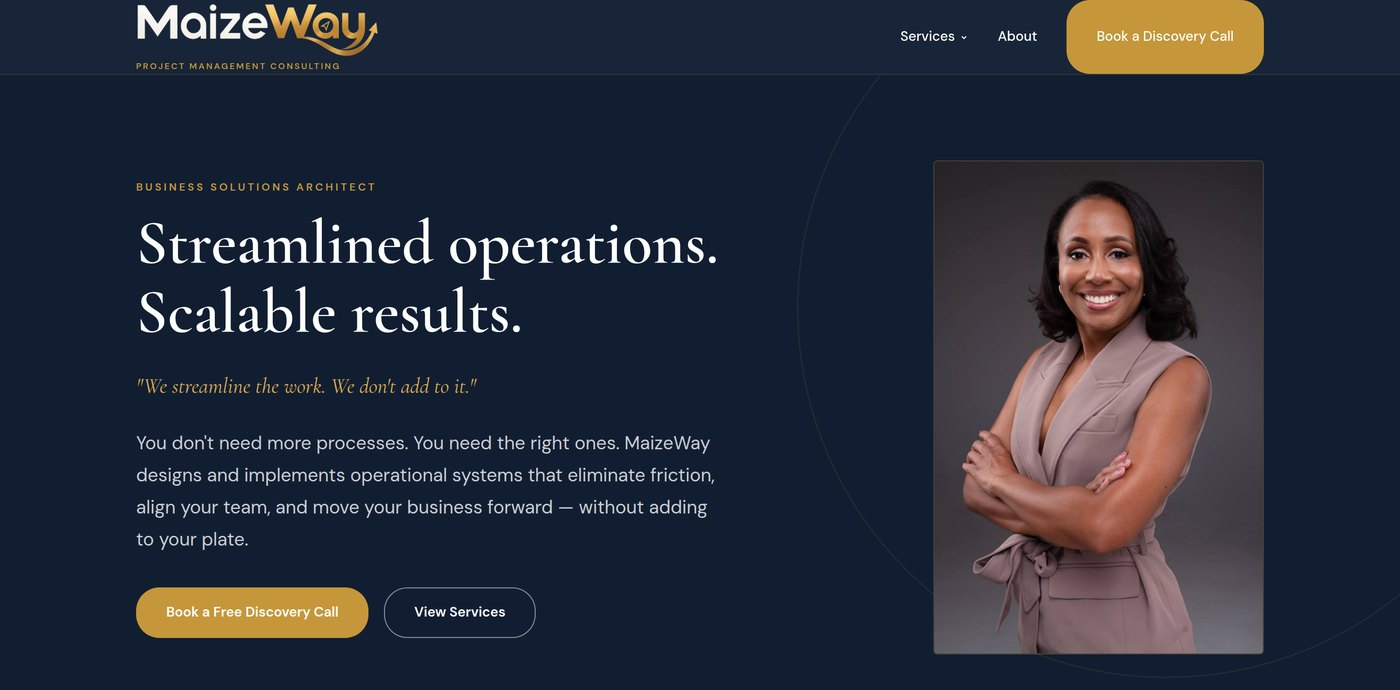
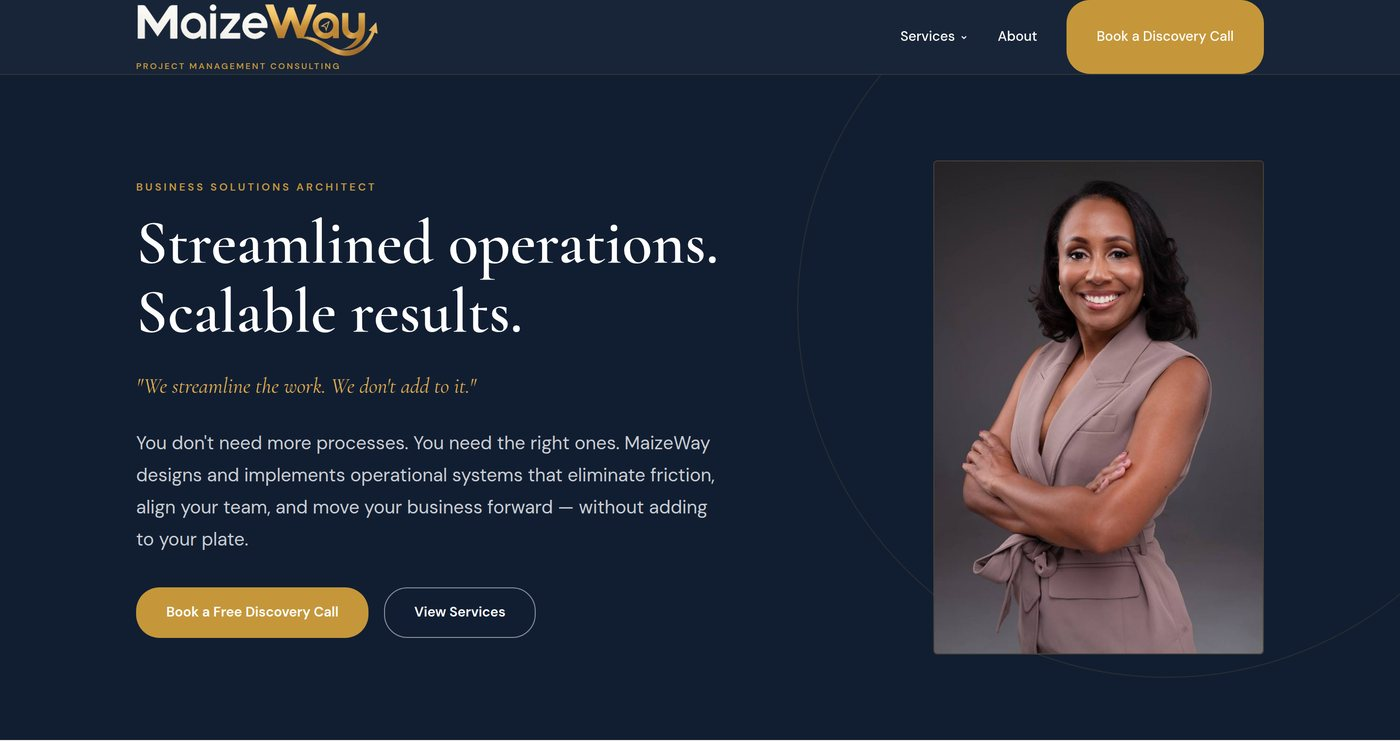
Reframe Creative Motion as a rebrand and show the full hero.
The portfolio copy now leads with the rebrand, and the homepage screenshot keeps the logo, headline, and portrait inside the browser frame.

diff --git a/portfolio.html b/portfolio.html
@@ -1247,17 +1247,18 @@ img.hero-watermark{ max-width: min(520px, 70vw); opacity: 0.14; object-fit: cont
     <div class="section-head reveal">
       <span class="eyebrow">Case Study</span>
       <h2>Creative Motion Events</h2>
-      <p>Creative direction and event design by Fayola Whyte-Manco. Full website redesign and migration off Squarespace to a fast custom site, with event portfolio galleries organized by category and album, a journal, inquiry forms, a mobile-first layout, SEO and link-preview setup, and a custom domain with HTTPS.</p>
+      <p>Full rebrand and website redesign for Creative Motion Events — creative direction and event design by Fayola Whyte-Manco. New gold logo and monogram with a new brand look, a redesigned site moved off Squarespace, event galleries organized by category and album, a journal, inquiry forms, a mobile-first layout, SEO and link previews, and a custom domain with HTTPS.</p>
     </div>
 
     <div class="case-panel reveal">
       <div>
         <span class="eyebrow on-dark">The Website</span>
-        <h3 style="font-size:24px;color:#fff;margin-top:14px;">Redesigned and moved off Squarespace.</h3>
-        <p style="color:rgba(255,255,255,0.68);margin-top:14px;">Event galleries organized by category and album, a journal, and inquiry forms. Built mobile-first, with SEO and link previews, on a custom domain with HTTPS.</p>
+        <h3 style="font-size:24px;color:#fff;margin-top:14px;">A full rebrand, redesigned and moved off Squarespace.</h3>
+        <p style="color:rgba(255,255,255,0.68);margin-top:14px;">New gold logo and monogram with a new brand look. Event galleries organized by category and album, a journal, and inquiry forms. Mobile-first layout, SEO and link previews, and a custom domain with HTTPS.</p>
         <div class="tag-list">
+          <span>Rebrand</span>
           <span>Website Design</span>
-          <span>Brand Refresh / Logo</span>
+          <span>Logo</span>
           <span>Migration</span>
         </div>
         <a href="https://creativemotionevents.com/" class="btn btn-outline-dark" style="margin-top:28px;" target="_blank" rel="noopener">Visit site
@@ -1266,7 +1267,7 @@ img.hero-watermark{ max-width: min(520px, 70vw); opacity: 0.14; object-fit: cont
       </div>
       <div class="shot-frame tilt-el">
         <div class="bar"><span></span><span></span><span></span></div>
-        <img src="assets/portfolio/creative-motion-events-website.jpg" alt="Creative Motion Events homepage hero for creative direction and event design">
+        <img src="assets/portfolio/creative-motion-events-website.jpg" alt="Creative Motion Events homepage hero with the gold logo, Fayola Whyte-Manco, and the rebrand headline">
       </div>
     </div>
   </div>

diff --git a/index.html b/index.html
@@ -1592,16 +1592,17 @@ img.hero-watermark{ max-width: min(520px, 70vw); opacity: 0.14; }
     <div class="section-head reveal">
       <span class="eyebrow">Featured Work</span>
       <h2>Creative Motion Events</h2>
-      <p>Full website redesign and migration off Squarespace for creative direction and event design by Fayola Whyte-Manco — category and album galleries, a journal, inquiry forms, and a mobile-first custom site.</p>
+      <p>Full rebrand and website redesign for Creative Motion Events — creative direction and event design by Fayola Whyte-Manco. New gold logo and monogram with a new brand look, a redesigned site moved off Squarespace, galleries, a journal, inquiry forms, a mobile-first layout, SEO and link previews, and a custom domain with HTTPS.</p>
     </div>
     <div class="case-panel reveal">
       <div>
         <span class="eyebrow on-dark">Case Study</span>
-        <h3 style="font-size:28px;color:#fff;margin-top:16px;">Redesigned and moved off Squarespace.</h3>
-        <p style="color:rgba(255,255,255,0.68);margin-top:14px;">A fast custom site with event portfolio galleries, a journal, inquiry forms, mobile-first layout, SEO and link-preview setup, and a custom domain with HTTPS.</p>
+        <h3 style="font-size:28px;color:#fff;margin-top:16px;">A full rebrand, redesigned and moved off Squarespace.</h3>
+        <p style="color:rgba(255,255,255,0.68);margin-top:14px;">New gold logo and monogram with a new brand look. Galleries, a journal, inquiry forms, a mobile-first layout, SEO and link previews, and a custom domain with HTTPS.</p>
         <div class="tag-list">
+          <span>Rebrand</span>
           <span>Website Design</span>
-          <span>Brand Refresh / Logo</span>
+          <span>Logo</span>
           <span>Migration</span>
         </div>
         <a href="https://creativemotionevents.com/" class="btn btn-outline-dark" style="margin-top:28px;" target="_blank" rel="noopener">Visit site
@@ -1610,7 +1611,7 @@ img.hero-watermark{ max-width: min(520px, 70vw); opacity: 0.14; }
       </div>
       <div class="shot-frame tilt-el">
         <div class="bar"><span></span><span></span><span></span></div>
-        <img src="assets/portfolio/creative-motion-events-website.jpg" alt="Creative Motion Events homepage hero for creative direction and event design">
+        <img src="assets/portfolio/creative-motion-events-website.jpg" alt="Creative Motion Events homepage hero with the gold logo, Fayola Whyte-Manco, and the rebrand headline">
       </div>
     </div>
   </div>
